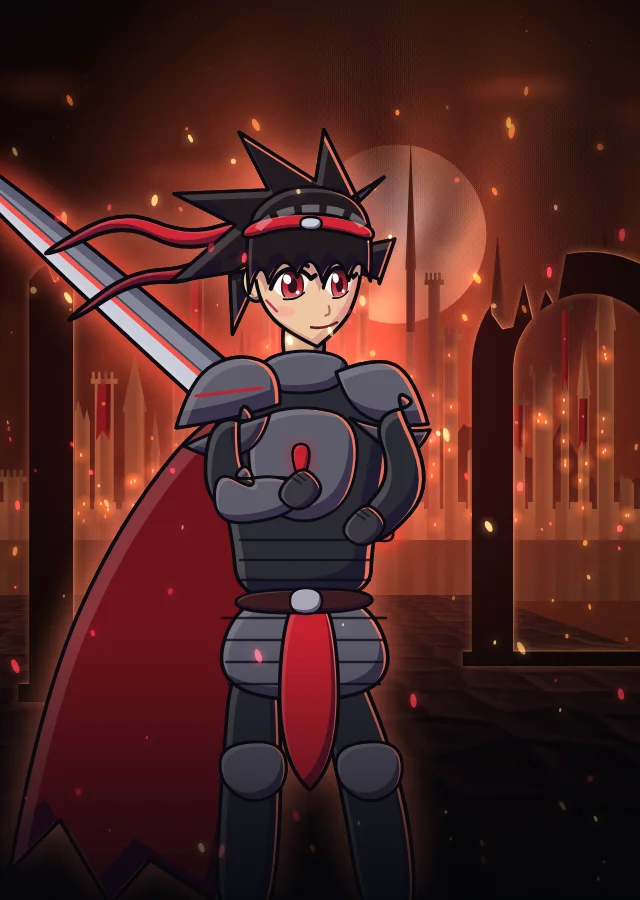
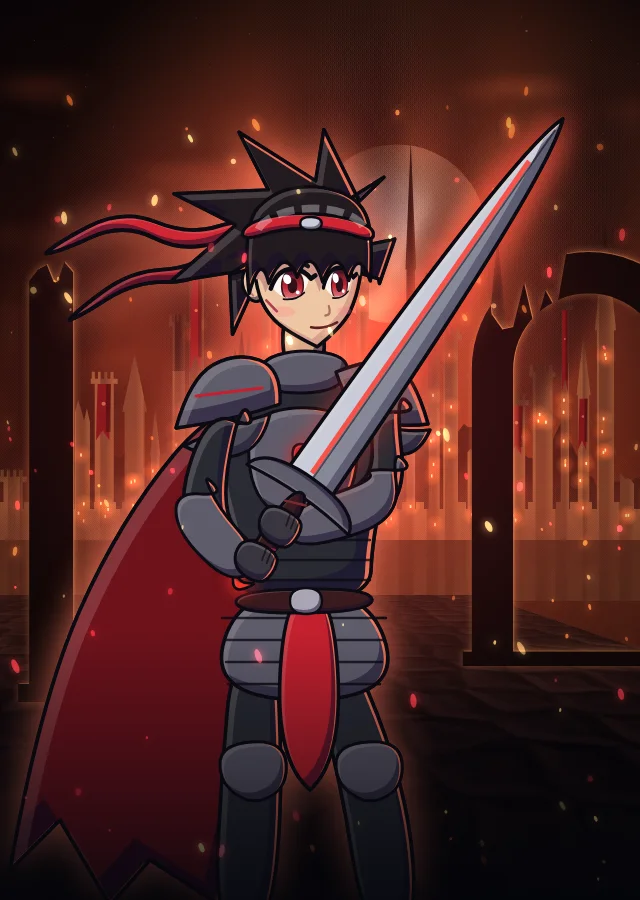
Taro tient son espadon à deux mains ; barres de maîtrise réelles sous les héros
- Carte de Taro : lame levée en diagonale devant lui, les deux mains sur la fusée
  (avant, on ne voyait pas d'où sortait l'épée).
- Barre de maîtrise de l'écran titre : elle restait toujours à 0 (progress: 0 en dur).
  Elle montre maintenant l'avancement vers le niveau suivant, avec « Maîtrise N » et
  l'XP restante au survol. Fin de run : vraie progression et « +N XP » (avant 40 % → 60 % fictifs).
- masteryProgress() + tests.

Claude-Session: https://claude.ai/code/session_01J75eymX1vHK36Tijxid3Ex

Changed region(s): [[0.25, 0.1244, 0.9062, 0.6844], [0.0, 0.1556, 0.375, 0.4667]]

diff --git a/tools/art/heroes.ts b/tools/art/heroes.ts
@@ -272,21 +272,13 @@ function ren(g) {
 
 // ================================================================== TARO
 
+/** Espadon de Taro : garde devant le ventre, lame vers le haut-droite. */
+const GUARD = [292, 508], SWORD_ANG = Math.atan2(-385, 268);
+
 function taro(g) {
   const sk = '#efc6a4', armor = '#2a2a33', red = '#c4202e', metal = '#5f5c6c', hair = '#221a20', rim = '#ff7a5c';
   // cape déchirée
   capeShape(g, [[226, 392], [372, 388], [330, 520], [260, 700], [220, 905, 1], [150, 860, 1], [110, 905, 1], [60, 820, 1], [10, 870, 1], [40, 700], [120, 520]], '#6e121b', red, rim);
-  // espadon posé sur l'épaule : lame derrière la tête, garde devant la poitrine
-  g.save(); g.translate(318, 474); g.rotate(-2.42);
-  const BL = 470;
-  paint(g, [[30, -26, 1], [BL, -22], [BL + 54, 0, 1], [BL, 22], [30, 26, 1]], '#c9ccd8', { d: 10, lw: 3.6, rim: '#ffd0c0', rimW: 4, glow: rgba('#ff3a2a', 0.55), glowBlur: 28,
-    after: (g) => { g.fillStyle = 'rgba(80,80,100,.55)'; g.fillRect(30, 0, BL + 60, 30); g.fillStyle = 'rgba(255,60,50,.85)'; g.fillRect(40, -6, BL - 40, 5); } });
-  line(g, [[34, 0], [BL + 40, 0]], 2, 'rgba(10,10,20,.6)');
-  paint(g, [[10, -62, 1], [36, -56], [36, 56], [10, 62, 1], [20, 0]], metal, { d: 6, lw: 3.2 }); // garde
-  paint(g, [[18, -12], [-80, -10], [-80, 10], [18, 12]], '#3a1a1e', { d: 5, lw: 3 }); // fusée
-  for (let i = 0; i < 5; i++) line(g, [[-70 + i * 18, -10], [-62 + i * 18, 10]], 2.4, '#7a2a30');
-  g.save(); g.shadowColor = '#ff3a2a'; g.shadowBlur = 16; paint(g, [[-80, -16], [-104, 0], [-80, 16], [-92, 0]], red, { d: 4, lw: 2.6 }); g.restore();
-  g.restore();
   // jambes
   paint(g, limb([[270, 650, 74], [252, 780, 62], [244, 910, 58]]), armor, { d: 14, rim, rimW: 4 });
   paint(g, limb([[344, 650, 74], [372, 780, 62], [390, 910, 58]]), armor, { d: 14, rim, rimW: 4 });
@@ -327,12 +319,26 @@ function taro(g) {
   line(g, [[196, 396], [262, 388]], 3, red);
   paint(g, [[350, 418, 1], [396, 434], [430, 430, 1], [420, 452], [390, 456]], mix(metal, '#000', .2), { d: 8, lw: 3.2, rim, rimW: 4 });
   paint(g, [[336, 372, 1], [376, 356], [414, 374], [428, 424, 1], [394, 428], [348, 410]], metal, { d: 14, lw: 3.4, rim, rimW: 5 });
-  // bras : les deux mains sur la fusée devant la poitrine
-  paint(g, limb([[396, 410, 50], [414, 480, 44], [372, 528, 38]]), armor, { d: 12, rim, rimW: 5 });
-  paint(g, limb([[234, 420, 54], [222, 500, 46], [290, 494, 40]]), armor, { d: 12, rim, rimW: 4 });
-  paint(g, limb([[236, 480, 50], [222, 504, 48], [284, 496, 44]]), metal, { d: 8, lw: 3, rim, rimW: 3 }); // canon d'avant-bras
-  fist(g, 300, 490, 20, -0.7, sk, { glove: '#3a3640', rim });
-  fist(g, 364, 526, 20, -0.7, sk, { glove: '#3a3640', rim });
+  // bras : les deux mains serrées sur la fusée (main haute sous la garde, main basse près du pommeau)
+  const hi = [GUARD[0] + Math.cos(SWORD_ANG) * (-22), GUARD[1] + Math.sin(SWORD_ANG) * (-22)], lo = [GUARD[0] + Math.cos(SWORD_ANG) * (-64), GUARD[1] + Math.sin(SWORD_ANG) * (-64)];
+  // bras loin (derrière la lame)
+  paint(g, limb([[394, 412, 50], [392, 500, 44], [hi[0] + 14, hi[1] + 2, 38]]), armor, { d: 12, rim, rimW: 5 });
+  paint(g, limb([[390, 470, 50], [388, 500, 48], [hi[0] + 22, hi[1] + 2, 44]]), metal, { d: 8, lw: 3, rim, rimW: 3 }); // canon d'avant-bras
+  // espadon tenu à deux mains devant lui, lame levée en diagonale (loin du visage)
+  g.save(); g.translate(GUARD[0], GUARD[1]); g.rotate(SWORD_ANG);
+  const BL = 420;
+  paint(g, [[30, -26, 1], [BL, -22], [BL + 54, 0, 1], [BL, 22], [30, 26, 1]], '#c9ccd8', { d: 10, lw: 3.6, rim: '#ffd0c0', rimW: 4, glow: rgba('#ff3a2a', 0.55), glowBlur: 28,
+    after: (g) => { g.fillStyle = 'rgba(80,80,100,.55)'; g.fillRect(30, 0, BL + 60, 30); g.fillStyle = 'rgba(255,60,50,.85)'; g.fillRect(40, -6, BL - 40, 5); } });
+  line(g, [[34, 0], [BL + 40, 0]], 2, 'rgba(10,10,20,.6)');
+  paint(g, [[10, -62, 1], [36, -56], [36, 56], [10, 62, 1], [20, 0]], metal, { d: 6, lw: 3.2 }); // garde
+  paint(g, [[18, -12], [-80, -10], [-80, 10], [18, 12]], '#3a1a1e', { d: 5, lw: 3 }); // fusée
+  for (let i = 0; i < 5; i++) line(g, [[-70 + i * 18, -10], [-62 + i * 18, 10]], 2.4, '#7a2a30');
+  g.save(); g.shadowColor = '#ff3a2a'; g.shadowBlur = 16; paint(g, [[-80, -16], [-104, 0], [-80, 16], [-92, 0]], red, { d: 4, lw: 2.6 }); g.restore();
+  g.restore();
+  paint(g, limb([[232, 420, 54], [196, 516, 46], [lo[0] - 12, lo[1] + 2, 40]]), armor, { d: 12, rim, rimW: 4 });
+  paint(g, limb([[200, 494, 50], [198, 520, 48], [lo[0] - 18, lo[1] + 2, 44]]), metal, { d: 8, lw: 3, rim, rimW: 3 });
+  fist(g, hi[0], hi[1], 21, SWORD_ANG + Math.PI / 2, sk, { glove: '#3a3640', rim });
+  fist(g, lo[0], lo[1], 21, SWORD_ANG + Math.PI / 2, sk, { glove: '#3a3640', rim });
 }
 
 // ================================================================== MEI

diff --git a/src/game/flow.ts b/src/game/flow.ts
@@ -13,7 +13,7 @@ import { BASE_MODS, PACTS, applyDailyMods, applyPacts, buildDaily, dailyScore, p
 import { dailyIntroScreen, dailyResultScreen, pactsScreen } from './screens';
 import { applyVfxSettings, applyGameplaySettings } from './settingsLink';
 import { mountUI, connectSave, metaFromProfile, codexFromProfile, codexProgress, codexFresh, sanctuaryActions, type UiRoot } from '../ui';
-import { SaveManager, recordRunEnd, recordBest, recordDaily, masteryLevel, unlockAchievement, upgradeRank, addCurrency, grant, type Profile } from '../save';
+import { SaveManager, recordRunEnd, recordBest, recordDaily, masteryProgress, unlockAchievement, upgradeRank, addCurrency, grant, type Profile } from '../save';
 import sanctuaryJson from '../../data/sanctuary.json';
 
 type Upgrade = { id: string; stat?: string; perRank?: number; unlocksPatron?: string };
@@ -75,7 +75,7 @@ export async function startApp(game: Game<GameEvents>, opts: { hero: HeroId; wav
     const out: Partial<Record<HeroId, { level: number; progress: number }>> = {};
     for (const id of ['taro', 'mei', 'sena', 'ren'] as HeroId[]) {
       const m = (save.profile.mastery as Record<string, { xp: number }>)[id];
-      if (m) out[id] = { level: masteryLevel(m.xp), progress: 0 };
+      if (m) out[id] = masteryProgress(m.xp);
     }
     return out;
   };
@@ -157,7 +157,7 @@ export async function startApp(game: Game<GameEvents>, opts: { hero: HeroId; wav
     for (const off of offRun) off();
     offRun = [];
     if (kind.daily) { endDaily(scene, r, kind); return; }
-    let gains = { eclats: r.wave * 2 }, from = 0, to = 0, level = 1;
+    let gains = { eclats: r.wave * 2 }, from = 0, to = 0, level = 1, xpFrom = 0, xpTo = 0;
     let best = r.wave;
     let near: ReturnType<typeof nearAchievements> = [];
     if (save) {
@@ -187,12 +187,13 @@ export async function startApp(game: Game<GameEvents>, opts: { hero: HeroId; wav
       unlock(scene, false);
       near = nearAchievements(save.profile, view(scene, r, false));
       gains = { eclats: rew.currencies.eclats };
-      from = rew.mastery.from; to = rew.mastery.to; level = to;
+      from = rew.mastery.from; to = rew.mastery.to; level = to; xpFrom = rew.mastery.xpFrom; xpTo = rew.mastery.xpTo;
     }
     ui.hud.el.hidden = true;
     ui.showRunEnd({
       victory: r.won, wave: r.wave, bestWave: best, kills: r.kills, timeSec: r.timeSec, gains,
-      mastery: { hero: r.hero, level, from: from === to ? 0.4 : 0, to: from === to ? 0.6 : 1 },
+      // Barre de maîtrise : vraie progression dans le niveau (si un palier est franchi, elle repart de 0).
+      mastery: { hero: HERO_NAME[r.hero] ?? r.hero, level, from: from === to ? masteryProgress(xpFrom).progress : 0, to: masteryProgress(xpTo).progress, gained: xpTo - xpFrom },
       near,
       onRetry: () => void startRun(r.hero, 1),
       onSanctuary: () => sanctuary(),

diff --git a/src/save/progress.ts b/src/save/progress.ts
@@ -149,9 +149,19 @@ export function masteryLevel(xp: number): number {
   return level;
 }
 
+/** Avancement dans le niveau de maîtrise : 0 au début du niveau, 1 au palier suivant (1 au niveau max). */
+export function masteryProgress(xp: number): { level: number; progress: number; xpInLevel: number; xpForNext: number | null } {
+  const levels = SANCTUARY.heroMastery.levels;
+  const level = masteryLevel(xp);
+  const cur = levels.find((l) => l.level === level)!, next = levels.find((l) => l.level === level + 1);
+  if (!next) return { level, progress: 1, xpInLevel: xp - cur.xp, xpForNext: null };
+  return { level, progress: Math.max(0, Math.min(1, (xp - cur.xp) / (next.xp - cur.xp))), xpInLevel: xp - cur.xp, xpForNext: next.xp - cur.xp };
+}
+
 /** Ajoute de l'XP de maîtrise et renvoie les paliers franchis (récompenses à afficher). */
-export function addMasteryXp(p: Profile, hero: HeroId, xp: number): { from: number; to: number; rewards: unknown[] } {
+export function addMasteryXp(p: Profile, hero: HeroId, xp: number): { from: number; to: number; xpFrom: number; xpTo: number; rewards: unknown[] } {
   const m = p.mastery[hero];
+  const xpFrom = m.xp;
   const from = masteryLevel(m.xp);
   m.xp += Math.max(0, Math.floor(xp));
   const to = masteryLevel(m.xp);
@@ -163,7 +173,7 @@ export function addMasteryXp(p: Profile, hero: HeroId, xp: number): { from: numb
     if (r.type === 'cosmetic' && r.id) grant(p, { cosmetic: r.id });
   }
   recordBest(p, 'maxHeroMastery', to);
-  return { from, to, rewards };
+  return { from, to, xpFrom, xpTo: m.xp, rewards };
 }
 
 // ─── succès ─────────────────────────────────────────────────────────────────
@@ -204,7 +214,7 @@ export interface RunSummary {
 export interface RunRewards {
   currencies: Record<CurrencyId, number>;
   newBestWave: boolean;
-  mastery: { from: number; to: number; rewards: unknown[] };
+  mastery: { from: number; to: number; xpFrom: number; xpTo: number; rewards: unknown[] };
 }
 
 /** Clôture une run : prime de fin, records, cumul des compteurs, maîtrise. Le défi quotidien ne paie pas ici (voir recordDaily). */

diff --git a/src/ui/screens/RunEnd.ts b/src/ui/screens/RunEnd.ts
@@ -7,7 +7,7 @@ export interface RunEndOptions {
   kills: number;
   timeSec: number;
   gains: { eclats: number; poussiere?: number; sceaux?: number };
-  mastery: { hero: string; level: number; from: number; to: number };   // progression 0..1 du niveau
+  mastery: { hero: string; level: number; from: number; to: number; gained?: number };   // progression 0..1 du niveau, XP gagnée
   next?: { icon: string; name: string; cost: number; currencyIcon: string; affordable: boolean };
   near: Array<{ icon: string; name: string; progress: number; label: string }>;
   onRetry: () => void;
@@ -32,7 +32,7 @@ export function runEndScreen(o: RunEndOptions): HTMLElement {
       h('h2', { class: 'sc-title', style: { fontSize: '2em' } }, o.victory ? 'Le Juge est tombé' : 'Ce que tu rapportes'),
       newBest ? h('p', { style: { color: 'var(--gold-hi)', margin: '6px 0 0', fontWeight: '700' } }, `★ Nouveau record : vague ${o.wave} (+5 ✦)`) : null,
       h('div', { class: 'sc-gains' }, ...gains.map((g) => h('div', { class: 'sc-gain', '--c': g.c }, (vals[vals.length] = h('strong', {}, '0')), h('span', {}, g.label)))),
-      h('div', { class: 'sc-xp' }, `Maîtrise de ${o.mastery.hero} · niveau ${o.mastery.level}`, h('div', { class: 'sc-track' }, xpBar)),
+      h('div', { class: 'sc-xp' }, `Maîtrise de ${o.mastery.hero} · niveau ${o.mastery.level}`, o.mastery.gained ? h('b', { style: { color: 'var(--gold-hi)', marginLeft: '8px' } }, `+${o.mastery.gained} XP`) : null, h('div', { class: 'sc-track' }, xpBar)),
       o.next ? h('div', { class: 'sc-next' }, h('i', {}, o.next.icon),
         h('div', {}, h('b', {}, o.next.affordable ? 'Amélioration disponible !' : 'Prochaine amélioration'), h('div', { style: { color: 'var(--mute)', fontSize: '0.9em' } }, `${o.next.name} · ${o.next.cost} ${o.next.currencyIcon}`))) : null,
       o.near.length ? h('div', { class: 'sc-near' }, h('div', { class: 'sc-sub', style: { display: 'block' } }, 'Presque…'),

diff --git a/tests/save.test.ts b/tests/save.test.ts
@@ -1,7 +1,7 @@
 import { describe, expect, it } from 'vitest';
 import {
   SaveManager, MemoryStore, migrate, parseSaveFile, buildSaveFile, ImportError, FutureVersionError,
-  buyUpgrade, unlockBuilding, recordRunEnd, recordDaily, unlockAchievement, masteryLevel,
+  buyUpgrade, unlockBuilding, recordRunEnd, recordDaily, unlockAchievement, masteryLevel, masteryProgress,
   applyBindings, diffBindings, LEGACY_KEYS, CURRENT_VERSION, type KVStore,
 } from '../src/save';
 
@@ -252,5 +252,21 @@ describe('méta-progression', () => {
     const diff = diffBindings(b);
     expect(Object.keys(diff)).toEqual(['dash']);
     expect(applyBindings(diff).dash.keys).toEqual(['KeyK']);
+  });
+});
+
+describe('barre de maîtrise des cartes de héros', () => {
+  it('avance dans le niveau puis repart de 0 au palier suivant', () => {
+    expect(masteryProgress(0)).toMatchObject({ level: 1, progress: 0, xpForNext: 60 });
+    expect(masteryProgress(30).progress).toBeCloseTo(0.5);
+    expect(masteryProgress(60)).toMatchObject({ level: 2, progress: 0 });
+    expect(masteryProgress(110).progress).toBeCloseTo(0.5);
+    expect(masteryProgress(1e9)).toMatchObject({ progress: 1, xpForNext: null });
+  });
+  it('une run fait bouger la barre (XP avant / après)', () => {
+    const p = migrate('profile', { version: 2 });
+    const out = recordRunEnd(p, { hero: 'mei', mode: 'survie', wave: 3, wavesCleared: 2, bossWaves: [], won: false, daily: false, pactPoints: 0, playTimeSec: 60, earned: {}, counters: {} });
+    expect(out.mastery.xpTo).toBeGreaterThan(out.mastery.xpFrom);
+    expect(masteryProgress(out.mastery.xpTo).progress).toBeGreaterThan(0);
   });
 });

diff --git a/src/ui/screens/Title.ts b/src/ui/screens/Title.ts
@@ -5,7 +5,7 @@ export interface TitleOptions {
   assetUrl: (key: string) => string | undefined;
   hero: HeroId;
   /** Progression de maîtrise 0..1 par héros (agent Sauvegarde). */
-  mastery?: Partial<Record<HeroId, { level: number; progress: number }>>;
+  mastery?: Partial<Record<HeroId, { level: number; progress: number; xpInLevel?: number; xpForNext?: number | null }>>;
   daily?: { label: string; streak: number };
   /** Expédition sauvegardée à reprendre. */
   resume?: { label: string; onResume: () => void; onDiscard: () => void };
@@ -42,7 +42,10 @@ export function titleScreen(o: TitleOptions): HTMLElement {
       onclick: () => { if (hero === id) o.onPlay(hero); hero = id; cards.forEach((c, i) => c.setAttribute('aria-pressed', String(HERO_IDS[i] === id))); },
       ondblclick: () => o.onPlay(id) },
     h('div', {}, h('h4', {}, info.name), h('p', {}, info.role),
-      h('div', { class: 'sc-mast', title: `Maîtrise ${m?.level ?? 1}` }, h('i', { style: { width: `${(m?.progress ?? 0) * 100}%` } }))));
+      // Maîtrise du héros : niveau + XP vers le palier suivant (gagnée à chaque run, même perdue).
+      h('div', { class: 'sc-mastrow', title: m?.xpForNext ? `Maîtrise niveau ${m.level} : ${m.xpInLevel ?? 0} / ${m.xpForNext} XP avant le niveau ${m.level + 1}` : `Maîtrise niveau ${m?.level ?? 1}` },
+        h('span', {}, `Maîtrise ${m?.level ?? 1}`),
+        h('div', { class: 'sc-mast' }, h('i', { style: { width: `${(m?.progress ?? 0) * 100}%` } })))));
     return card;
   });
   const ch = Math.max(0, Math.min(3, o.chapter ?? 0));

diff --git a/src/ui/ui.css b/src/ui/ui.css
@@ -265,7 +265,8 @@
 .sc-herocard > div { position: absolute; left: 0; right: 0; bottom: 0; padding: 10px 12px; z-index: 1; }
 .sc-herocard h4 { margin: 0; font: 700 1.25em var(--display); letter-spacing: 0.08em; color: var(--c); }
 .sc-herocard p { margin: 2px 0 0; font-size: 0.82em; color: var(--mute); }
-.sc-herocard .sc-mast { margin-top: 6px; height: 3px; background: rgba(255, 255, 255, 0.12); }
+.sc-herocard .sc-mastrow { display: flex; align-items: center; gap: 6px; margin-top: 6px; font-size: 0.68em; letter-spacing: 0.06em; text-transform: uppercase; color: var(--mute); white-space: nowrap; }
+.sc-herocard .sc-mast { flex: 1; height: 4px; border-radius: 2px; overflow: hidden; background: rgba(255, 255, 255, 0.14); }
 .sc-herocard .sc-mast i { display: block; height: 100%; background: var(--c); }
 .sc-herocard:hover, .sc-herocard:focus-visible { transform: translateY(-4px); border-color: var(--c); outline: none; }
 .sc-herocard[aria-pressed="true"] { border: 2px solid var(--c); box-shadow: 0 0 0 1px #000, 0 0 30px color-mix(in srgb, var(--c) 45%, transparent); transform: translateY(-6px); }
